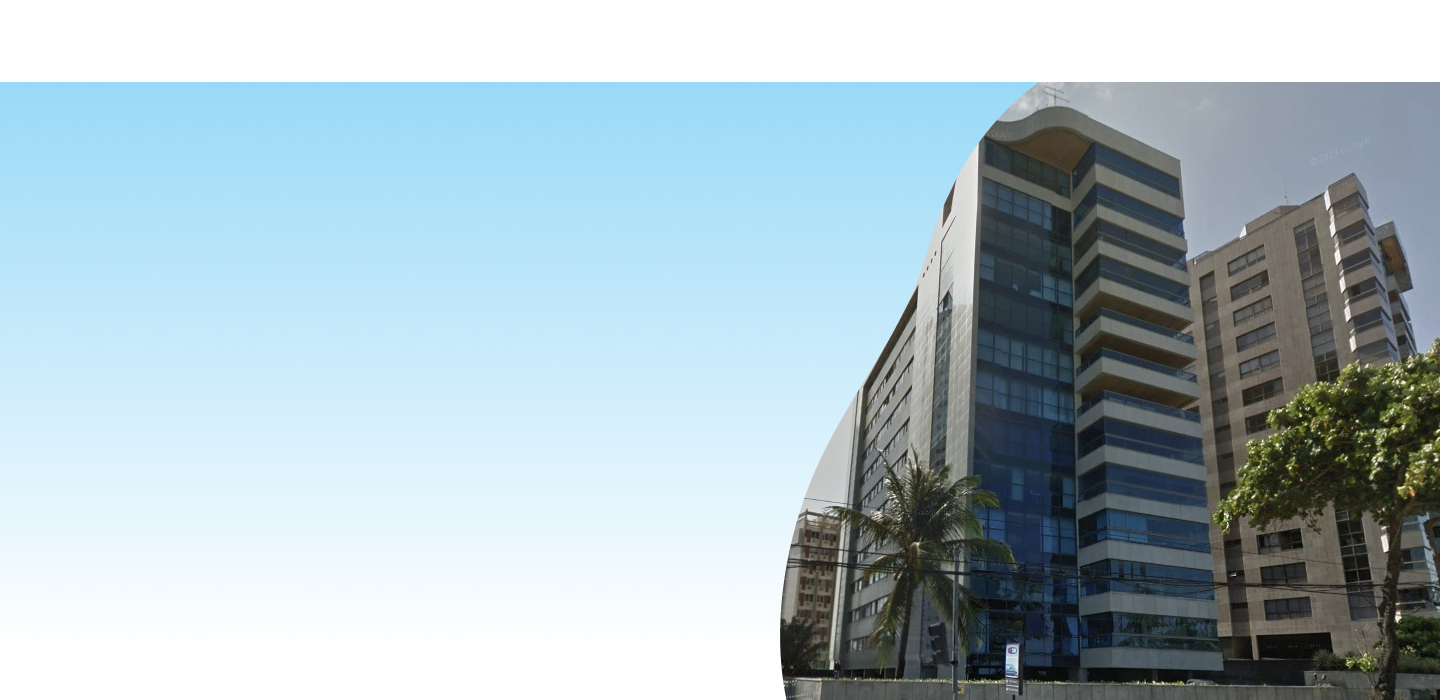
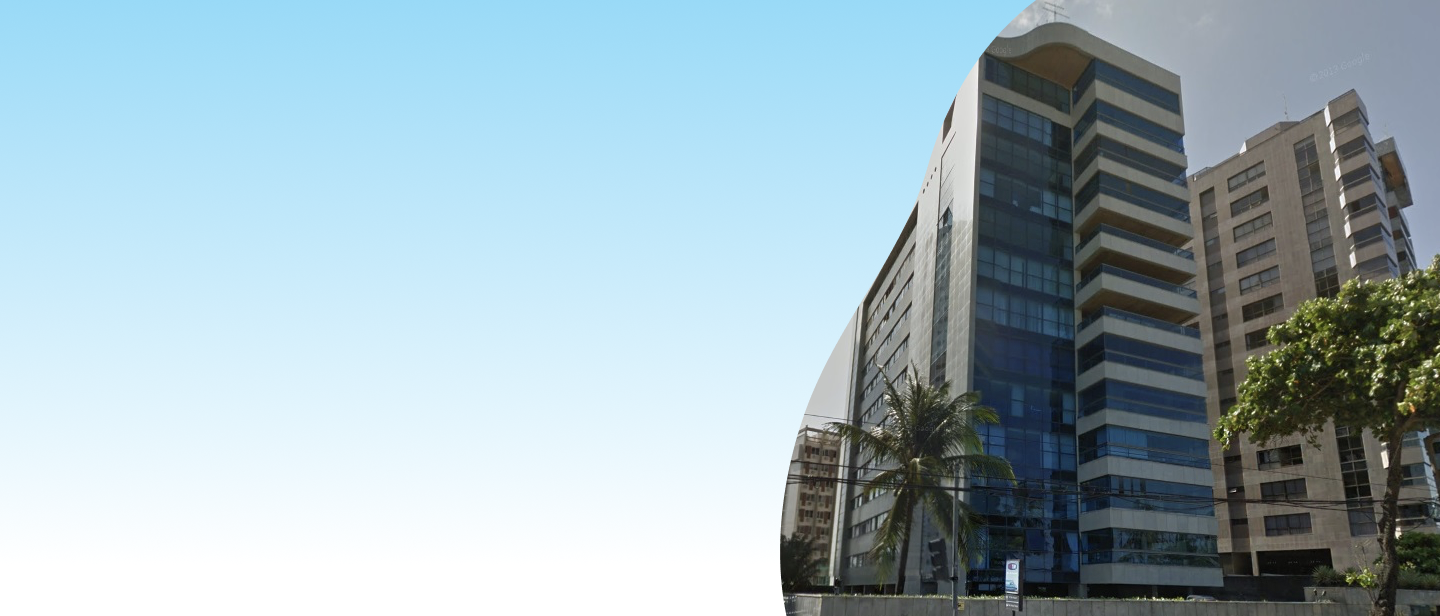
fé em deus

Changed region(s): [[0.0, 0.0, 1.0, 0.987]]

diff --git a/airbenebe/src/app/app.component.html b/airbenebe/src/app/app.component.html
@@ -7,54 +7,23 @@
     <meta name="viewport" content="width=device-width, initial-scale=1">
 </head>
 
-<mat-toolbar class="header">
-    <img class="logo" src="../assets/logo/logo.png" alt="Airbnb icon">
+<body>
 
-    <div class="btns">
-        <button button (click)="login.toggle()" mat-raised-button class="btn login">Entrar</button>
-        <button button (click)="register.toggle()" mat-raised-button class="btn login">Cadastrar</button>
+    <mat-toolbar class="header">
+        <img class="logo" src="../assets/logo/logo.png" alt="Airbnb icon">
+
+        <div class="btns">
+            <button mat-raised-button class="btn login ">Entrar</button>
+            <button mat-raised-button class="btn login ">Cadastrar</button>
+        </div>
+    </mat-toolbar>
+
+    <div class="container">
+        <h1>Encontre aqui um lar para chamar de seu!</h1>
+        <p>Lorem ipsum dolor sit amet, consectetur adipiscing elit. In lacinia elit id orci consectetur, semper malesuada lacus fringilla. Nunc vel dolor faucibus felis placerat elementum. Nunc viverra orci at justo fringilla, in lobortis odio vestibulum.
+            Vivamus id mi ultrices, consectetur sapien vitae, accumsan ante. Nulla eleifend tempor dolor. Maecenas et justo mauris.</p>
     </div>
 
-</mat-toolbar>
-
-<div class="Popup Entrar">
-    <app-modal #login>
-        <div>
-            <h1>Bem Vindo ao Arbenebe!</h1>
-            <form>
-                <input type="text" placeholder="Email" name="Email" required>
-                <input type="password" placeholder="Senha" name="Senha" required>
-            </form>
-        </div>
-        <div>
-            <p class="Senha-F">Esqueceu sua <a href="#">senha?</a></p>
-        </div>
-        <div class="btn-modal">
-            <a button (click)="login.toggle()" class="btn-modal-style" href="#">
-              Entrar
-          </a>
-        </div>
-    </app-modal>
-</div>
-
-<div class="Popup Cadastrar">
-    <app-modal #register>
-        <div>
-            <h1>Crie sua conta no Arbenebe!</h1>
-            <input type="text" placeholder="Nome" name="Nome" required>
-            <input type="text" placeholder="Email" name="Email" required>
-            <input type="password" placeholder="Senha" name="Senha" required>
-        </div>
-        <div class="terms">
-            <input type="checkbox" id="terms" required>
-            <label for="terms">Aceitar termos de uso</label>
-        </div>
-        <div class="btn-modal">
-            <a button (click)="register.toggle()" class="btn-modal-style">
-            Cadastrar</a>
-        </div>
-    </app-modal>
-</div>
-
+</body>
 
 </html>

diff --git a/airbenebe/src/app/app.component.css b/airbenebe/src/app/app.component.css
@@ -1,4 +1,10 @@
 @import url('https://fonts.googleapis.com/css2?family=Raleway:wght@400;700&display=swap');
+body {
+    background-image: url('../assets/images/background.png');
+    background-repeat: no-repeat;
+    background-size: cover;
+}
+
 * {
     font-family: 'Raleway', sans-serif;
 }
@@ -44,64 +50,19 @@
     padding-right: 25px;
 }
 
-
-/* modal */
-
-.btn-modal-style {
-    background-color: #4C76E1;
-    border: none;
-    color: white;
-    padding: 10px 0px 10px;
-    width: 75%;
-    text-decoration: none;
-    border-radius: 10px;
-    box-shadow: 0px 5px 10px rgba(0, 0, 0, 0.3);
-    height: 50%;
-    display: inline-block;
+.container {
+    margin-top: 25vh;
+    margin-left: 50px;
+    max-width: 40%;
 }
 
-.btn-modal-style:hover {
-    box-shadow: 0px 5px 10px rgba(0, 0, 0, 0.5);
-    background-color: #EB4C60;
-}
-
-.Popup {
-    text-align: center;
-}
-
-.Popup h1 {
-    font-size: 30px;
+.container h1 {
+    font-size: 45px;
+    color: #4C76E1;
     font-weight: 500;
+    line-height: 45px;
 }
 
-.Senha-F {
-    text-align: left;
-    margin: 2% 0% 6% 12%;
-}
-
-input[type=text],
-input[type=password] {
-    width: 75%;
-    padding: 8px 15px;
-    margin: 8px 0;
-    display: inline-block;
-    border: 2px solid #5697C7;
-    box-sizing: border-box;
-    border-radius: 10px;
-    justify-content: center;
-}
-
-input[type=text]::placeholder,
-input[type=password]::placeholder {
+.container p {
     font-size: 15px;
-    color: rgb(189, 189, 189);
-    height: 50%;
-}
-
-.btn-modal a {
-    font-size: 20px;
-}
-
-.terms {
-    margin: 3% 0%;
 }

diff --git a/airbenebe/src/app/app.module.ts b/airbenebe/src/app/app.module.ts
@@ -7,10 +7,6 @@ import { AppComponent } from './app.component';
 import {MatToolbarModule} from '@angular/material/toolbar';
 import {MatButtonModule} from '@angular/material/button'
 
-import {ModalModule} from './modal/modal.module';
-
-import {MatFormField} from '@angular/material/form-field'
-
 @NgModule({
   declarations: [
     AppComponent
@@ -19,8 +15,7 @@ import {MatFormField} from '@angular/material/form-field'
     BrowserModule,
     AppRoutingModule,
     MatToolbarModule,
-    MatButtonModule,
-    ModalModule
+    MatButtonModule
   ],
   providers: [],
   bootstrap: [AppComponent]
